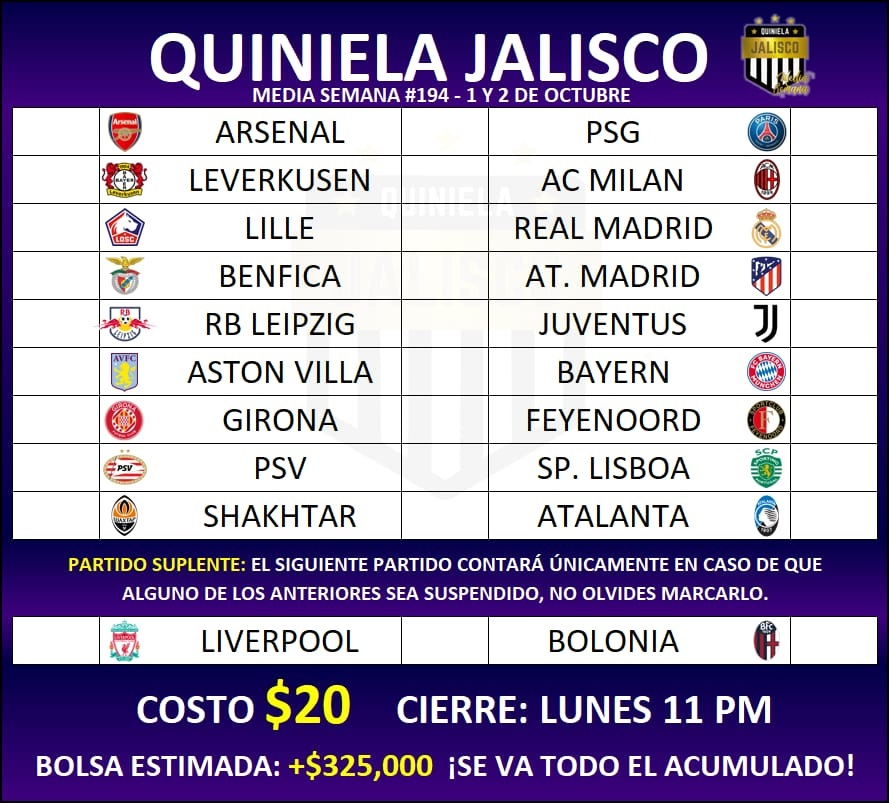
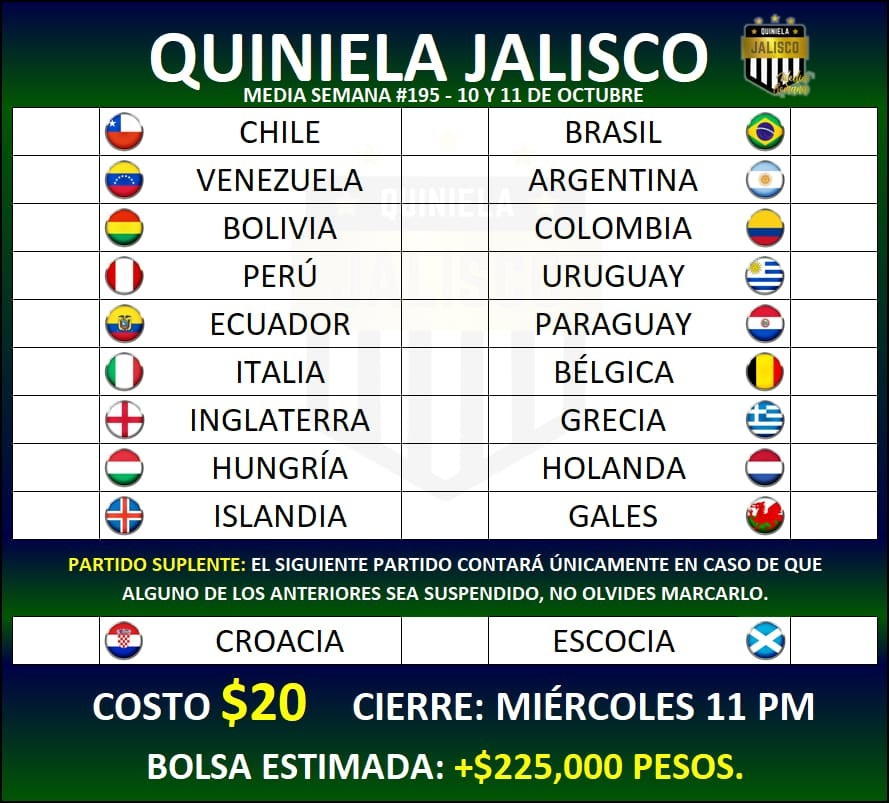
Media Semana #195

diff --git a/MediaSemana/stylesmSusp.css b/MediaSemana/stylesmSusp.css
@@ -94,8 +94,8 @@ body{
     margin-top: 9%;
     border: solid 1px black;
     border-radius: 0 0 14px 14px;
-    background: -webkit-linear-gradient(0.5turn, rgb(36, 0, 102), rgb(0 13 63) 80%);
-    background: linear-gradient(0.5turn, rgb(36, 0, 102), rgb(0 13 63) 80%);
+    background: -webkit-linear-gradient(0.5turn, rgb(1,61,23), rgb(0 13 63) 80%);
+    background: linear-gradient(0.5turn, rgb(1,61,23), rgb(0 13 63) 80%);
 }
 
 .text-lg{
@@ -294,7 +294,7 @@ h6{
 }
 
 #cantidad:before{
-    content:' +$325,000 pesos \A¡Se reparte todo el acumulado!';
+    content:' +$225,000 pesos';
     color: yellow;
     white-space:pre;
 }
